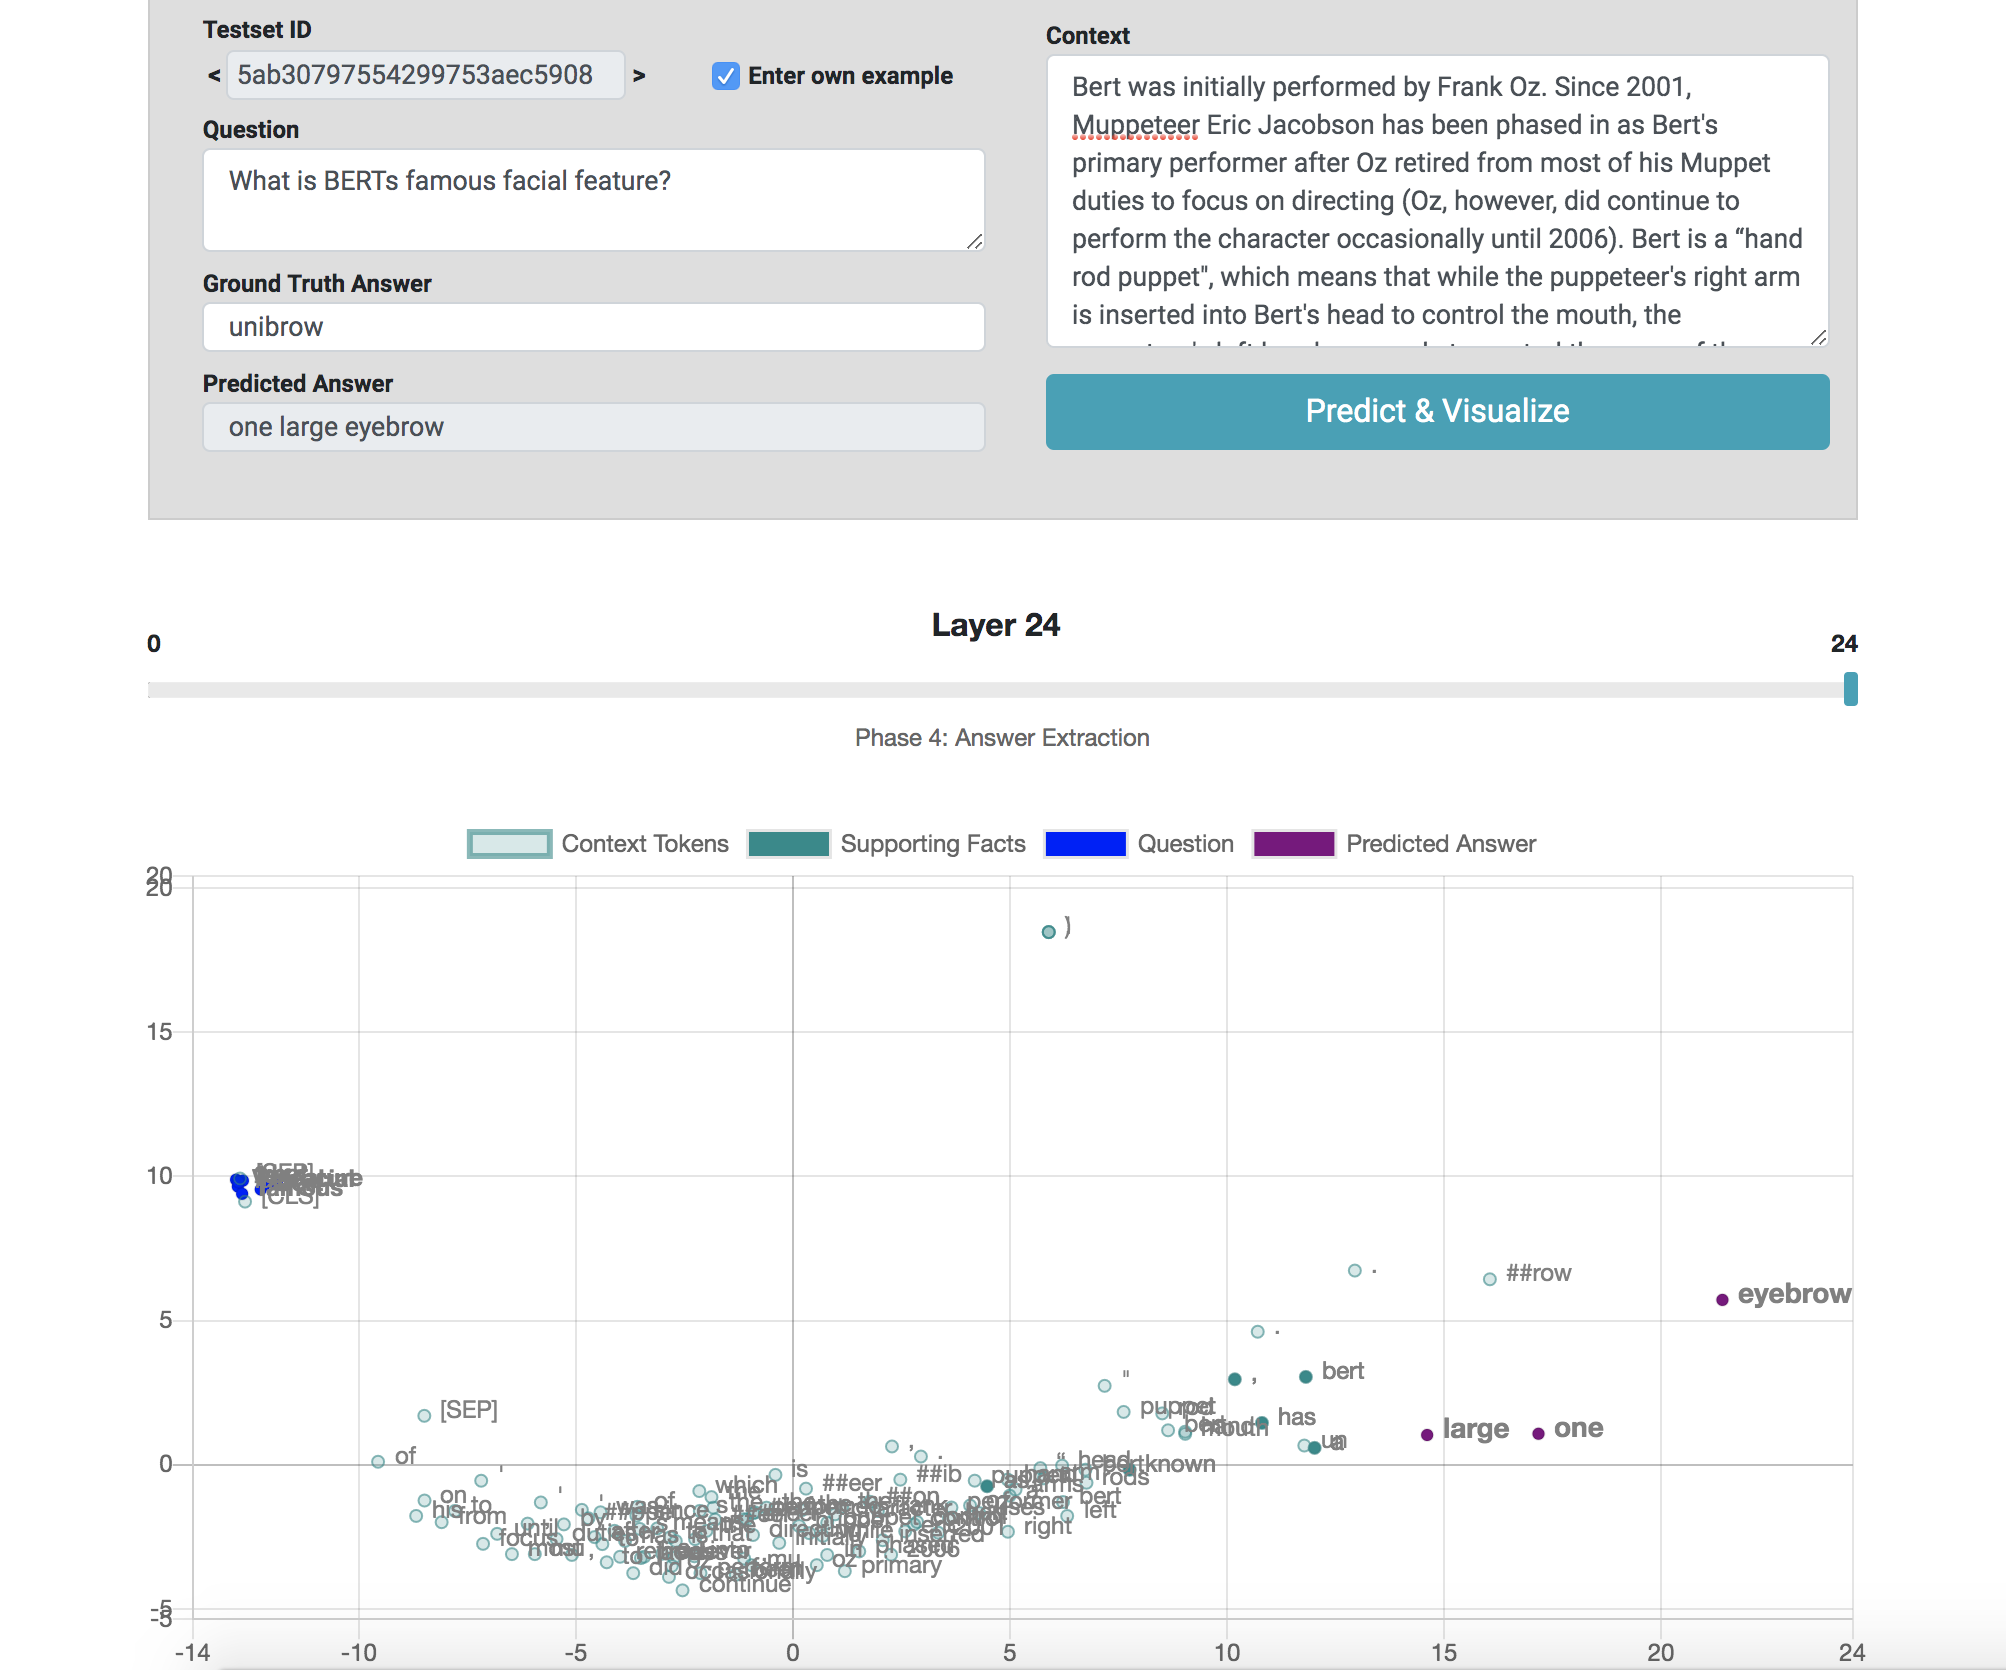
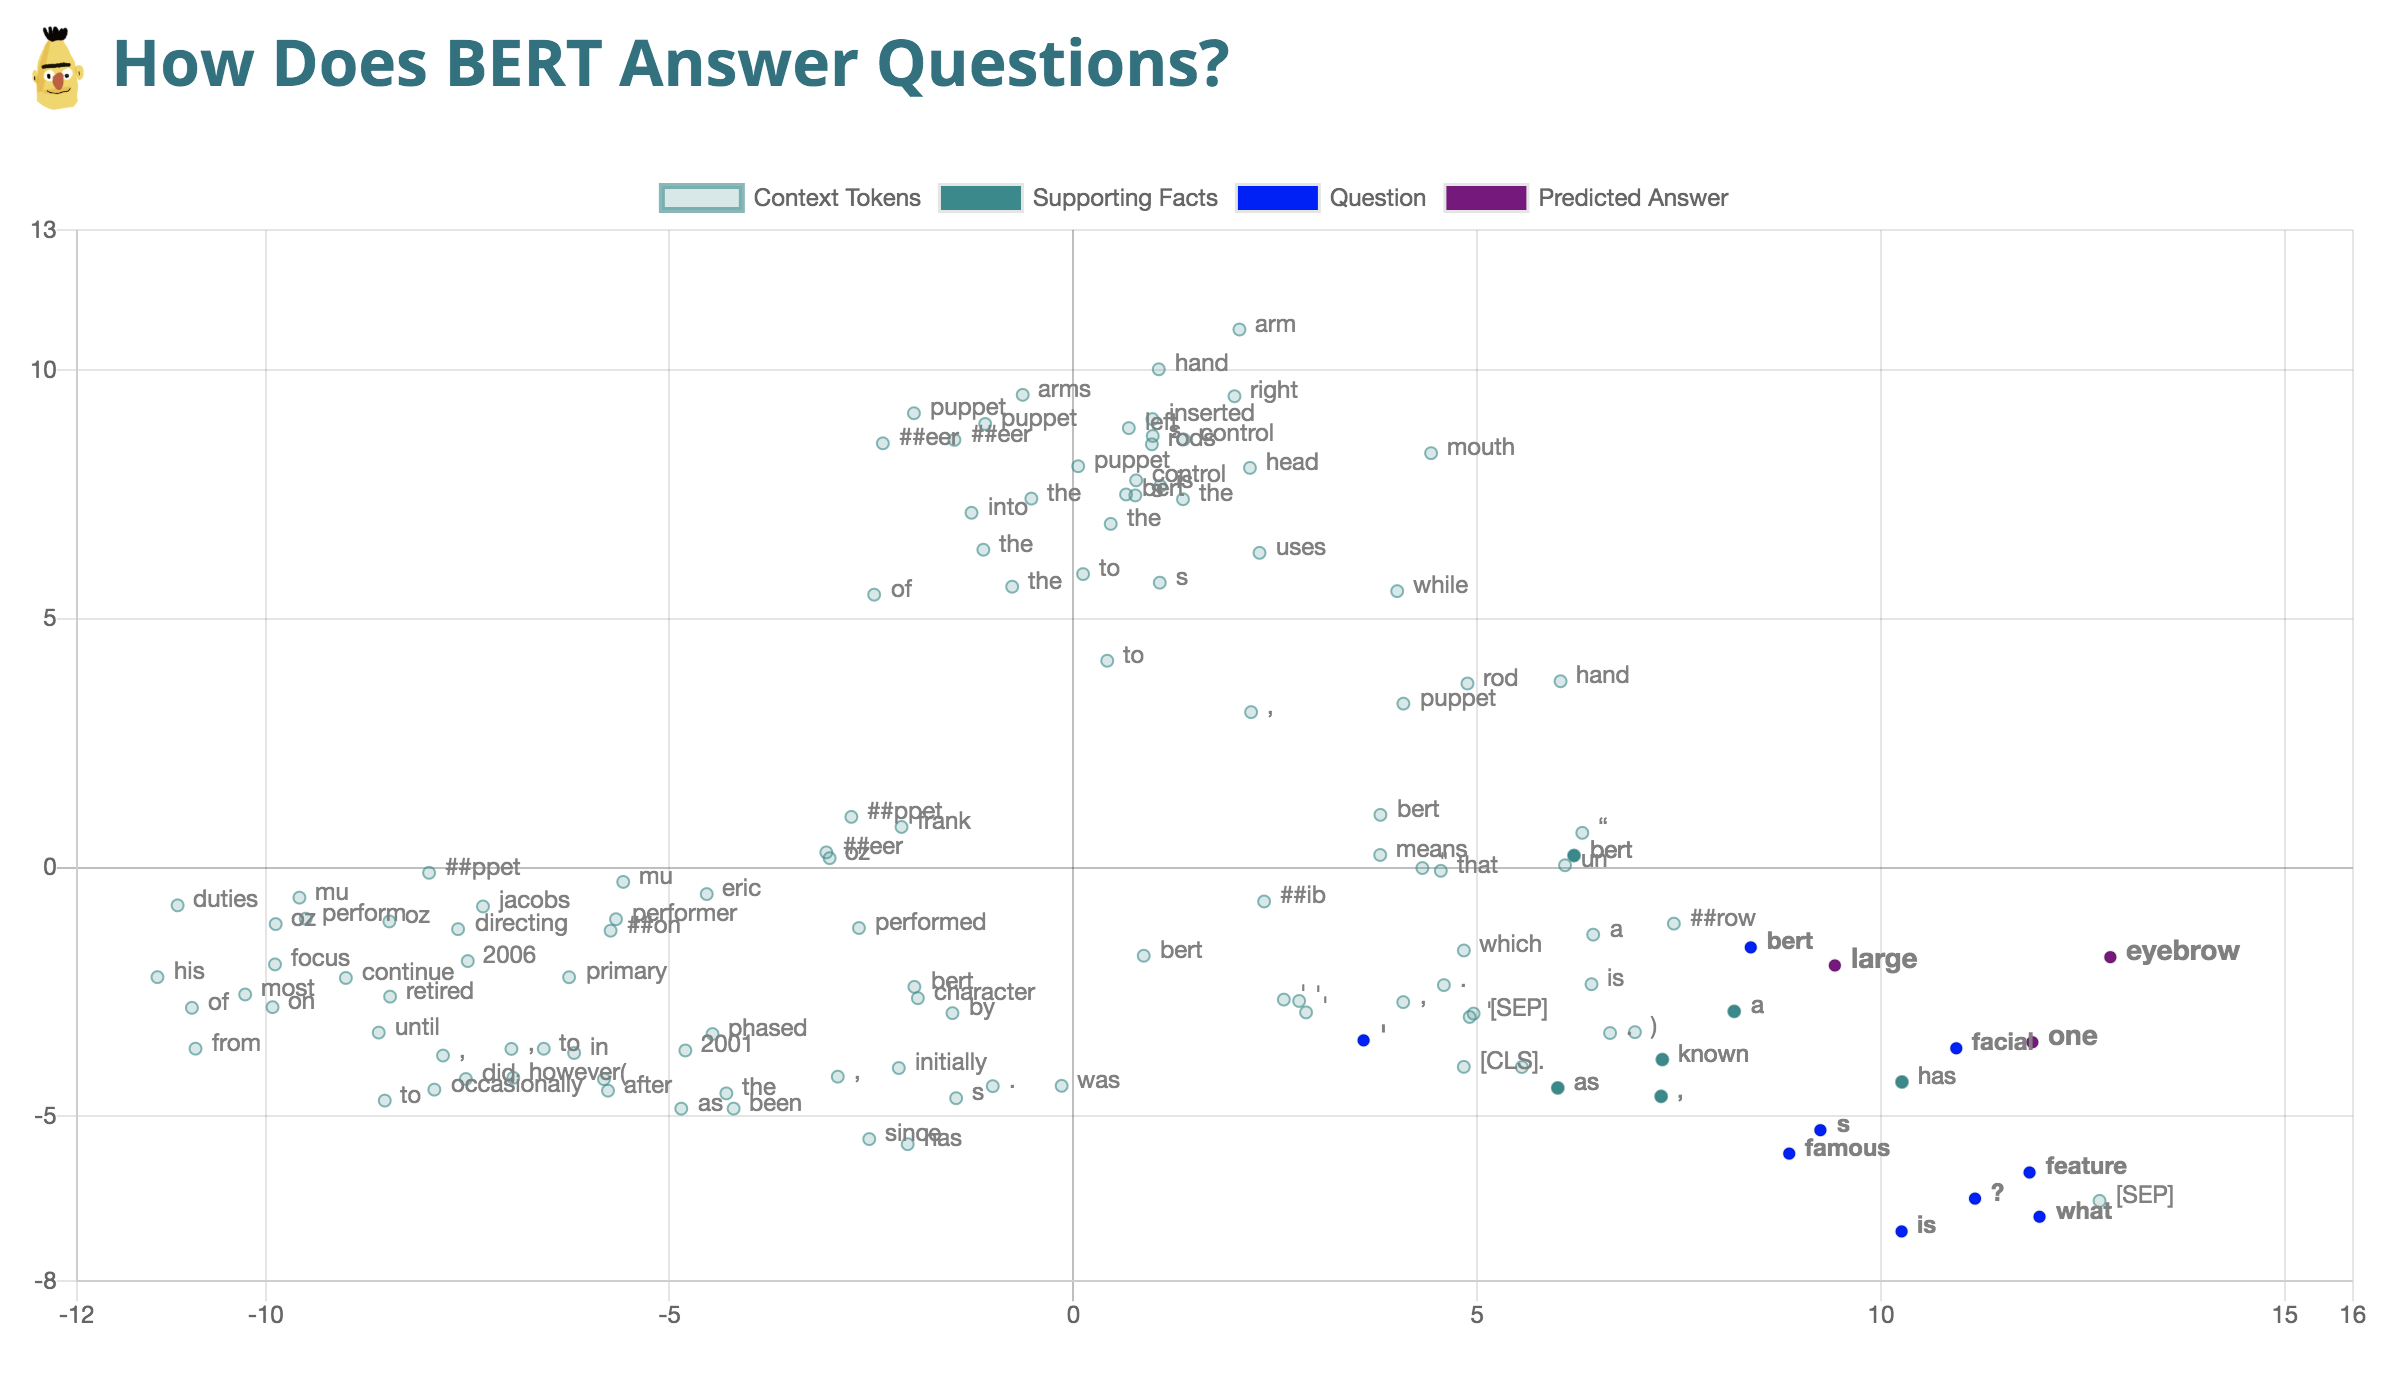
add footnotes and style changes

diff --git a/templates/demo.html b/templates/demo.html
@@ -28,7 +28,7 @@
     <link rel="stylesheet" href="https://stackpath.bootstrapcdn.com/bootstrap/4.3.1/css/bootstrap.min.css"
           integrity="sha384-ggOyR0iXCbMQv3Xipma34MD+dH/1fQ784/j6cY/iJTQUOhcWr7x9JvoRxT2MZw1T" crossorigin="anonymous">
     <link rel="stylesheet" href="http://nitinhayaran.github.io/jRange/jquery.range.css">
-    <link href='http://fonts.googleapis.com/css?family=Roboto:100,300,400,500,700,900' rel='stylesheet' type='text/css'>
+    <link href='http://fonts.googleapis.com/css?family=Open+Sans:100,300,400,500,700,900' rel='stylesheet' type='text/css'>
     <link rel="stylesheet" href="../static/style.css">
     <link rel="shortcut icon" href="https://prof.beuth-hochschule.de/fileadmin/Resources/images/favicon.ico" type="image/x-icon">
 
@@ -37,19 +37,20 @@
 </head>
 
 <body>
-<h2 class="title">How Does BERT Answer Questions?</h2>
+<h2 class="title"><img src="../static/img/bert.png" style="margin-right: 10pt;width: 20pt;">How Does BERT Answer Questions?</h2>
 
 <div class="d-flex intro-text-container">
-    <div class="flex-fill intro-text intro-text-left">Watch how BERT
-        (fine-tuned on QA tasks) transforms tokens to get to the right answers. This demo shows how the token
-        representations change throughout the layers of BERT. We observed that the transformations mostly pass four phases related to traditional Question Answering pipelines. <br><br>The tool demonstrates the findings from our paper: <i>Betty van
+    <div class="flex-fill intro-text intro-text-left">
+        <div class="intro-title">What is this about?</div>
+        Watch how BERT (fine-tuned on QA tasks) transforms tokens to get to the right answers. This demo shows how the token
+        representations change throughout the layers of BERT. We observed that the transformations mostly pass four phases related to traditional Question Answering pipelines. <br><br>The tool demonstrates the findings from our paper: <span style="font-weight: 500;">Betty van
             Aken, Benjamin Winter, Alexander Löser and Felix Gers.
             <a href="https://openreview.net/pdf?id=SygMXE2vAE" target="_blank">How Does BERT Answer Questions? A
                 Layer-Wise
-                Analysis of Transformer Representations.</a> CIKM 2019.</i>
+                Analysis of Transformer Representations.</a> CIKM 2019.</span>
     </div>
     <div class="flex-fill intro-text intro-text-right">
-        The 4 phases of BERT's transformations:<br>
+        <div class="intro-title">The 4 phases of BERT's transformations</div>
         <div class="phases-text"><b>1. Topical / Word Clusters</b> Equal words and topics are clustered without current concern
         consideration.</div>
         <div class="phases-text"><b>2. Connect Entities with Mentions and Attributes</b> Tokens are clustered based on their relation in the
@@ -60,9 +61,9 @@
 </div>
 
 <div class="d-flex task-tab-wrapper">
-    <div class="p-2 flex-fill task-tab task-tab-active" id="squadTab" onclick="switchToSquad()">SQuAD</div>
-    <div class="p-2 flex-fill task-tab" id="hotpotTab" onclick="switchToHotpot()">HotpotQA</div>
-    <div class="p-2 flex-fill task-tab task-tab-deactived" id="babiTab">bAbI QA</div>
+    <div class="p-2 flex-fill task-tab task-tab-active" id="squadTab" onclick="switchToSquad()">SQuAD <span class="footnote-id">[1]</span></div>
+    <div class="p-2 flex-fill task-tab" id="hotpotTab" onclick="switchToHotpot()">HotpotQA <span class="footnote-id">[2]</span></div>
+    <div class="p-2 flex-fill task-tab task-tab-deactived" id="babiTab">bAbI QA <span class="footnote-id">[3]</span></div>
 </div>
 <div class="question-form-container" align="center">
 
@@ -105,20 +106,29 @@
 </div>
 </div>
 
-<div class="slider-container" align="center">
-    <div class="d-flex">
+<div class="slider-container" align="left">
+    <div class="d-flex" style="width:50%">
         <div class="flex-fill layer-label" align="left">0</div>
         <div class="flex-fill layer-label-large" align="center" id="layer_nr_label">Layer 0</div>
         <div class="flex-fill layer-label" align="right" id="layer_max">12</div>
     </div>
     <!--<span class="form-label layer-label" id="layer_nr_label">Layer 0</span>-->
-    <input type="range" id="layer-nr-slider" min="0" max="12" step="1" value="0"/>
+    <input type="range" style="width:50%" id="layer-nr-slider" min="0" max="12" step="1" value="0"/><br>
     <span id="phase-label" class="info-text">Phase 1: Topical / Word Clusters</span>
 </div>
 </div>
 
 <div class="canvas-container">
     <canvas id="plot_canvas"></canvas>
+</div>
+<div class="footnotes">
+    <p><span class="footnote-id">[1]</span> Pranav Rajpurkar, Jian Zhang, Konstantin Lopyrev, and Percy Liang. 2016. <i>SQuAD: 100, 000+ Questions for Machine Comprehension of Text.</i> In Proceedings of EMNLP 2016</p>
+    <p><span class="footnote-id">[2]</span> Zhilin Yang, Peng Qi, Saizheng Zhang, Yoshua Bengio, William W. Cohen, Ruslan Salakhutdinov, and Christopher D. Manning. 2018. <i>HotpotQA: A Dataset for Diverse, Explainable Multi-hop Question Answering.</i> In Proceedings of EMNLP 2018.</p>
+    <p><span class="footnote-id">[3]</span> Jason Weston, Antoine Bordes, Sumit Chopra, and Tomas Mikolov. 2016. <i>Towards AI-Complete Question Answering: A Set of Prerequisite Toy Tasks.</i> In Proceedings of ICLR 2016</p>
+    <br>
+    <br>
+    <p>by <a href="https://prof.beuth-hochschule.de/loeser/people/betty-van-aken/" target="_blank">Betty van Aken</a> (<a href="https://twitter.com/betty_v_a" target="_blank">@betty_v_a</a>)</p>
+
 </div>
 
 

diff --git a/static/style.css b/static/style.css
@@ -1,11 +1,15 @@
 body {
-    font-family: Roboto, sans-serif;
+    font-family: "Open Sans", sans-serif;
+    /*font-family: "Roboto", sans-serif;*/
 }
 
 .title {
-    text-align: center;
+    text-align: left;
+    margin-left: 80pt;
     padding-top: 20pt;
-    padding-bottom: 20pt;
+    padding-bottom: 15pt;
+    color:#117281;
+    font-weight: 700;
 }
 
 .intro-text-container {
@@ -14,12 +18,35 @@ body {
 
 .intro-text {
     color: #666;
-    font-size: 10pt;
+    font-size: 9pt;
     font-weight: 300;
-    padding: 10pt;
+    padding-bottom: 10pt;
     width: 100%;
-    background-color: #eef7f8;
 }
+
+.intro-title {
+    font-weight: 700;
+    font-size: 11pt;
+    color:#117281;
+    margin-bottom: 5pt;
+}
+
+.footnote-id {
+    font-weight: 300;
+    font-size: 8pt;
+    color: #117281;
+    line-height: 20pt;
+    height: 20pt;
+}
+
+.footnotes {
+    width: 50%;
+    font-size: 9pt;
+    margin-left: 80pt;
+    margin-right: 60pt;
+}
+
+input, textarea, select { font-family:inherit; font-weight: 400; }
 
 .intro-text-left {
     margin-right:5pt;
@@ -34,11 +61,11 @@ body {
 }
 
 .phases-text {
-    padding-top: 5pt;
+    padding-bottom: 2pt;
 }
 
 .phases-text b {
-    font-weight: 700;
+    font-weight: 600;
 }
 
 .info-text {
@@ -77,7 +104,7 @@ input[type=text] {
 }
 
 .task-tab-wrapper {
-    background-color: #dedede;
+    background-color: #f4f7f8;
     margin-left: 80pt;
     margin-right: 60pt;
     text-align: center;
@@ -108,13 +135,14 @@ input[type=text] {
 
 .question-form-container {
     padding: 10pt  10pt 20pt 20pt;
-    background-color: #dedede;
+    background-color: #f4f7f8;
     margin-left: 80pt;
     margin-right: 60pt;
     margin-bottom: 10pt;
     border-left: solid #ccc 1px;
     border-right: solid #ccc 1px;
     border-bottom: solid #ccc 1px;
+    box-shadow: 8px 8px 10px #88888833;
 }
 
 .form-textarea {

diff --git a/static/main.js b/static/main.js
@@ -2,7 +2,8 @@
 
 var fontDefault = {
     size: 12,
-    weight: 'normal'
+    weight: 'normal',
+
 };
 var fontBold = {
     weight: 'bold'
